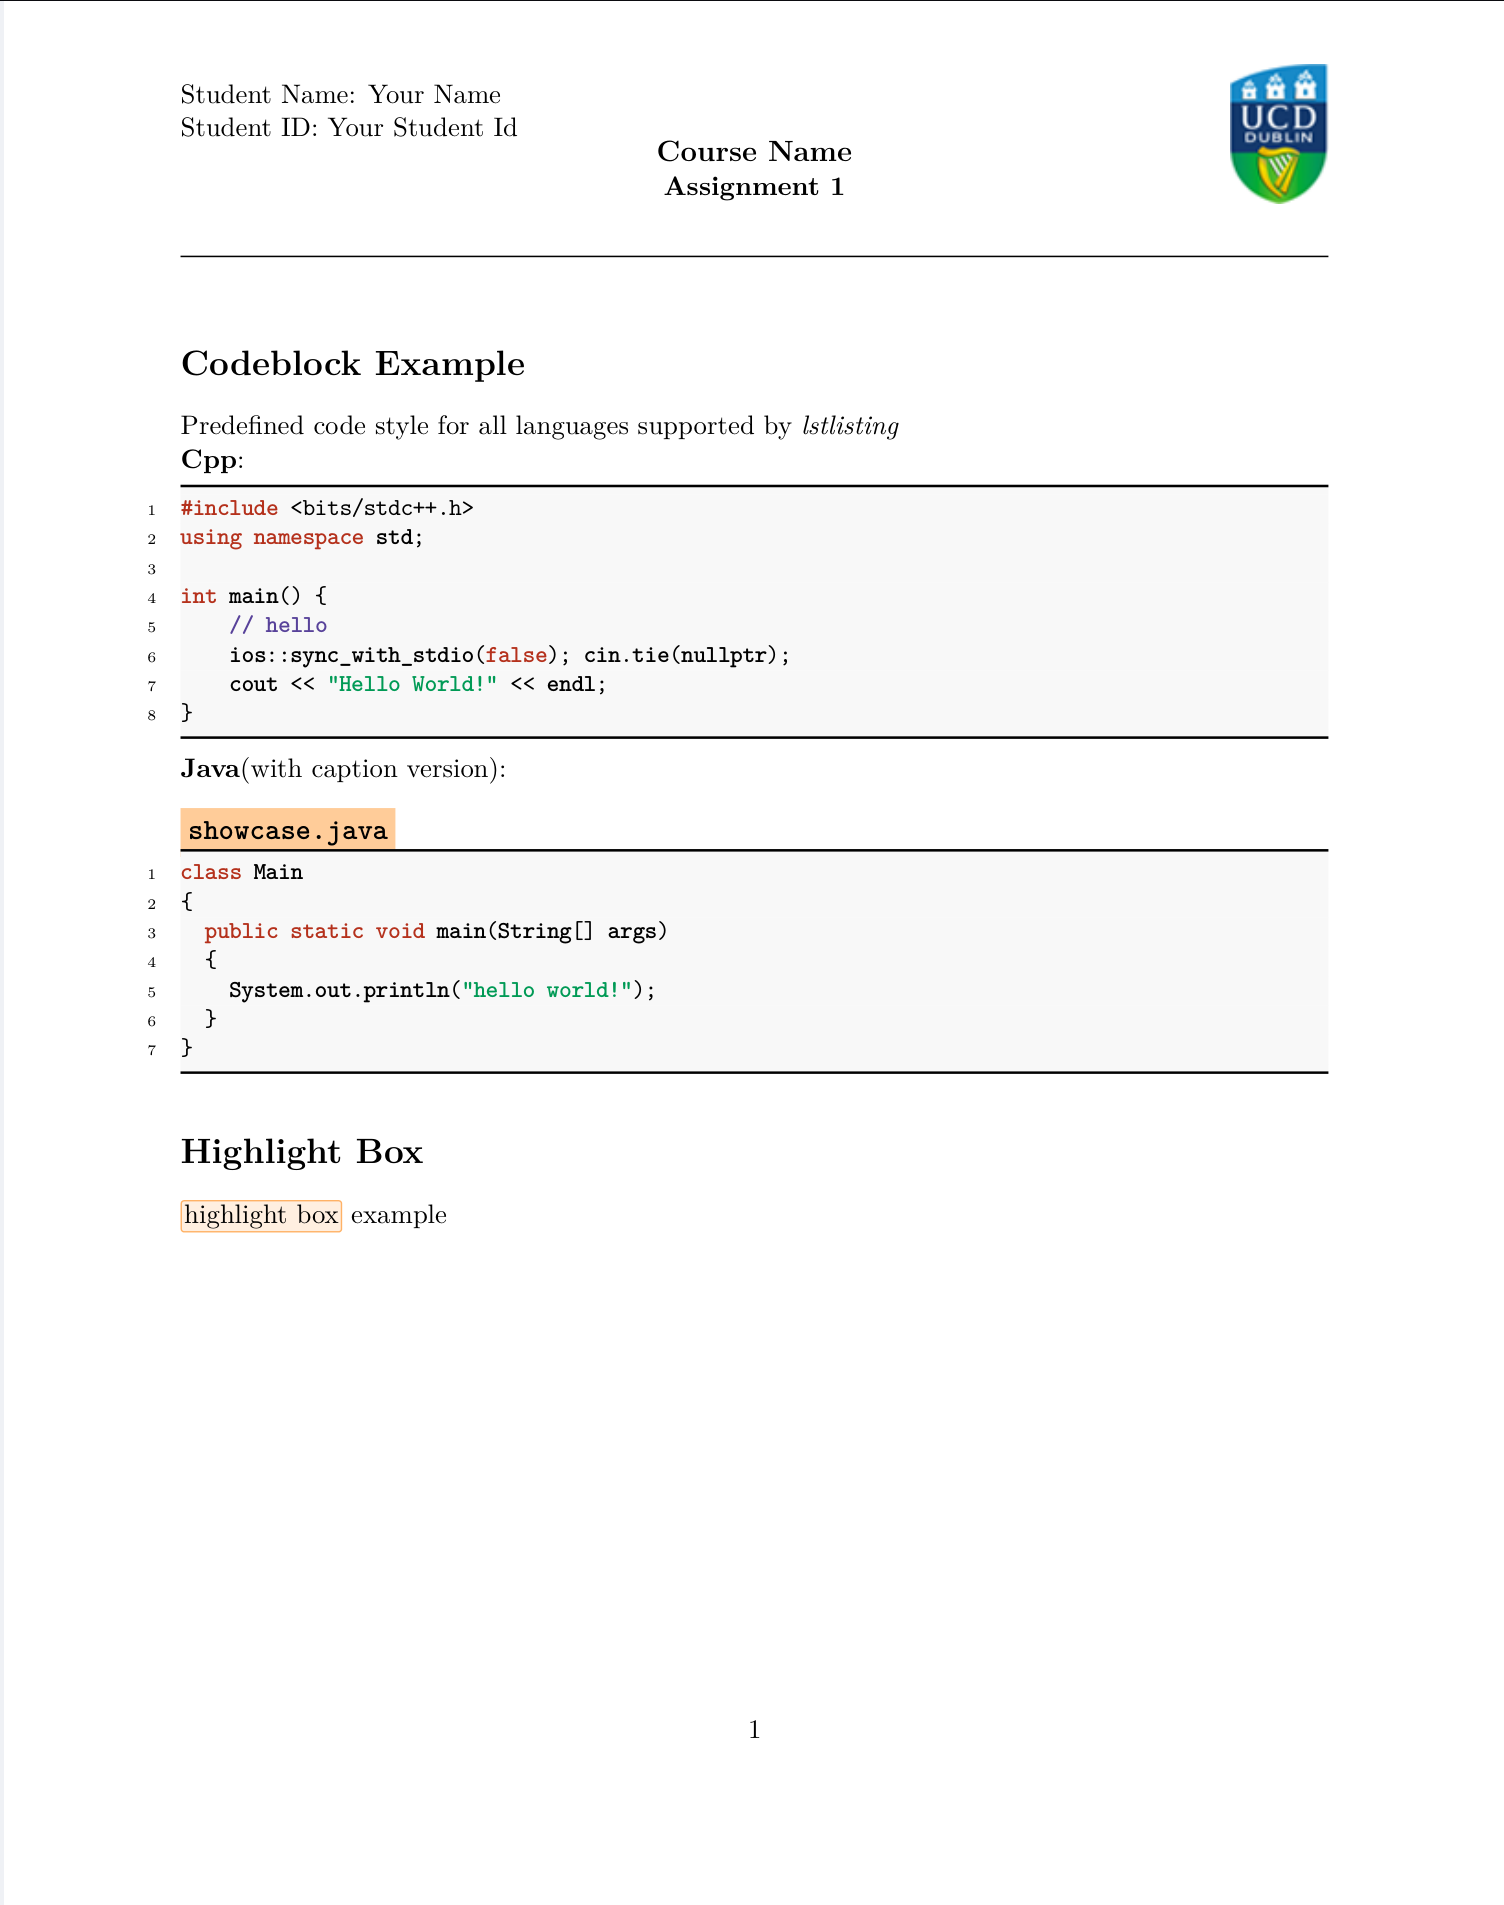
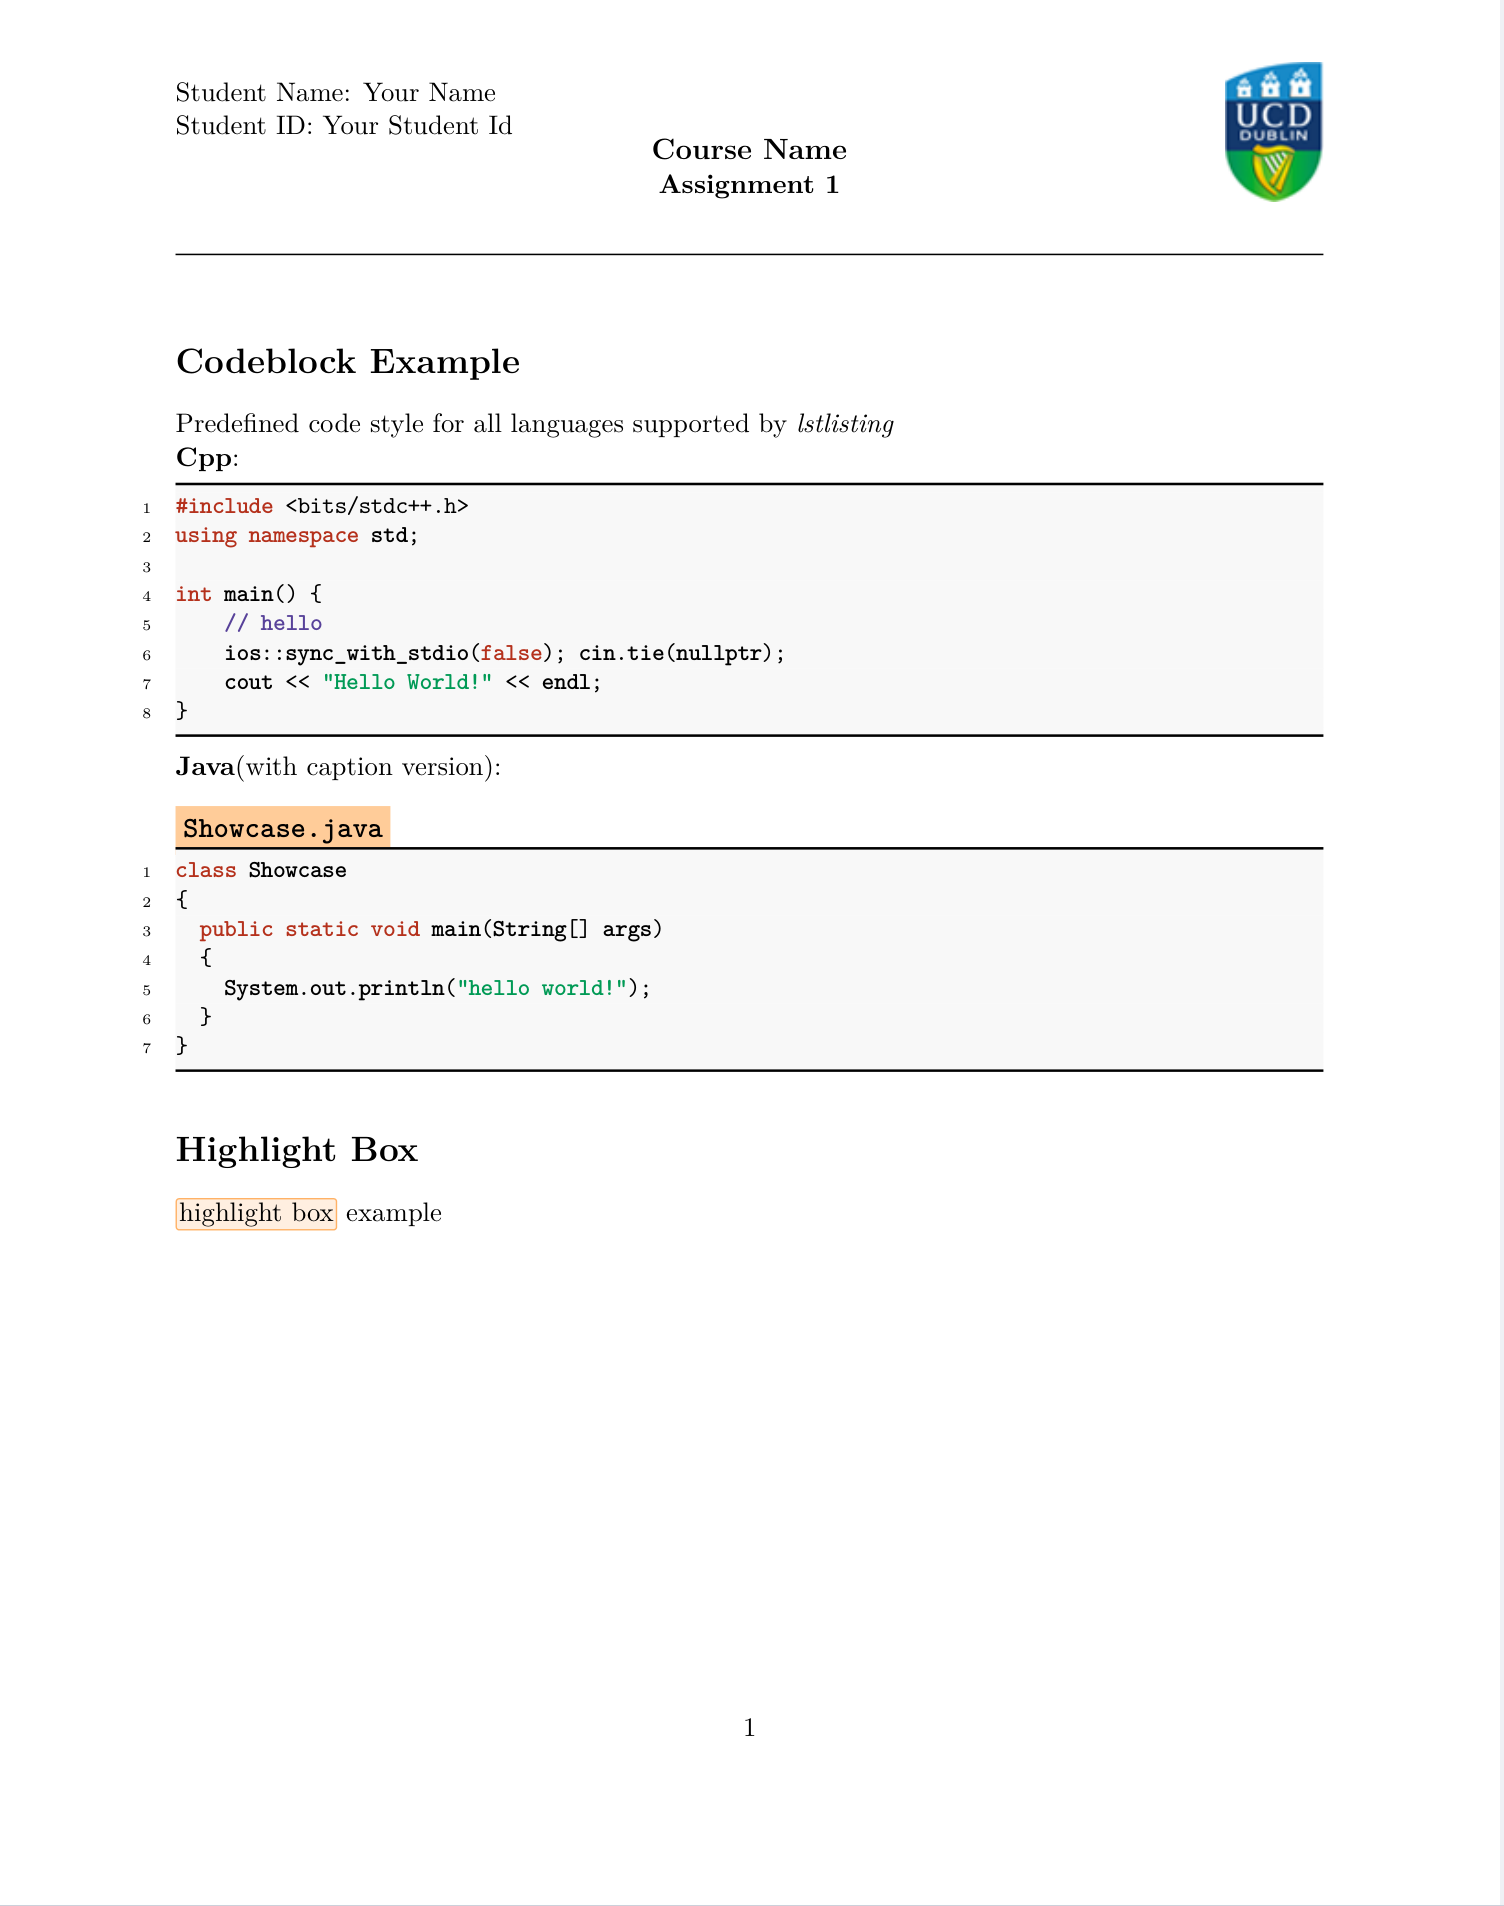
change screenshot

diff --git a/main.tex b/main.tex
@@ -9,8 +9,8 @@ Predefined code style for all languages supported by \textit{lstlisting}\\
 \textbf{Cpp}:
 \lstinputlisting[language=C++]{assets/test.cpp}
 \textbf{Java}(with caption version):
-\begin{lstlisting}[language=Java, caption={showcase.java}]
-class Main
+\begin{lstlisting}[language=Java, caption={Showcase.java}]
+class Showcase
 {
   public static void main(String[] args)
   {
